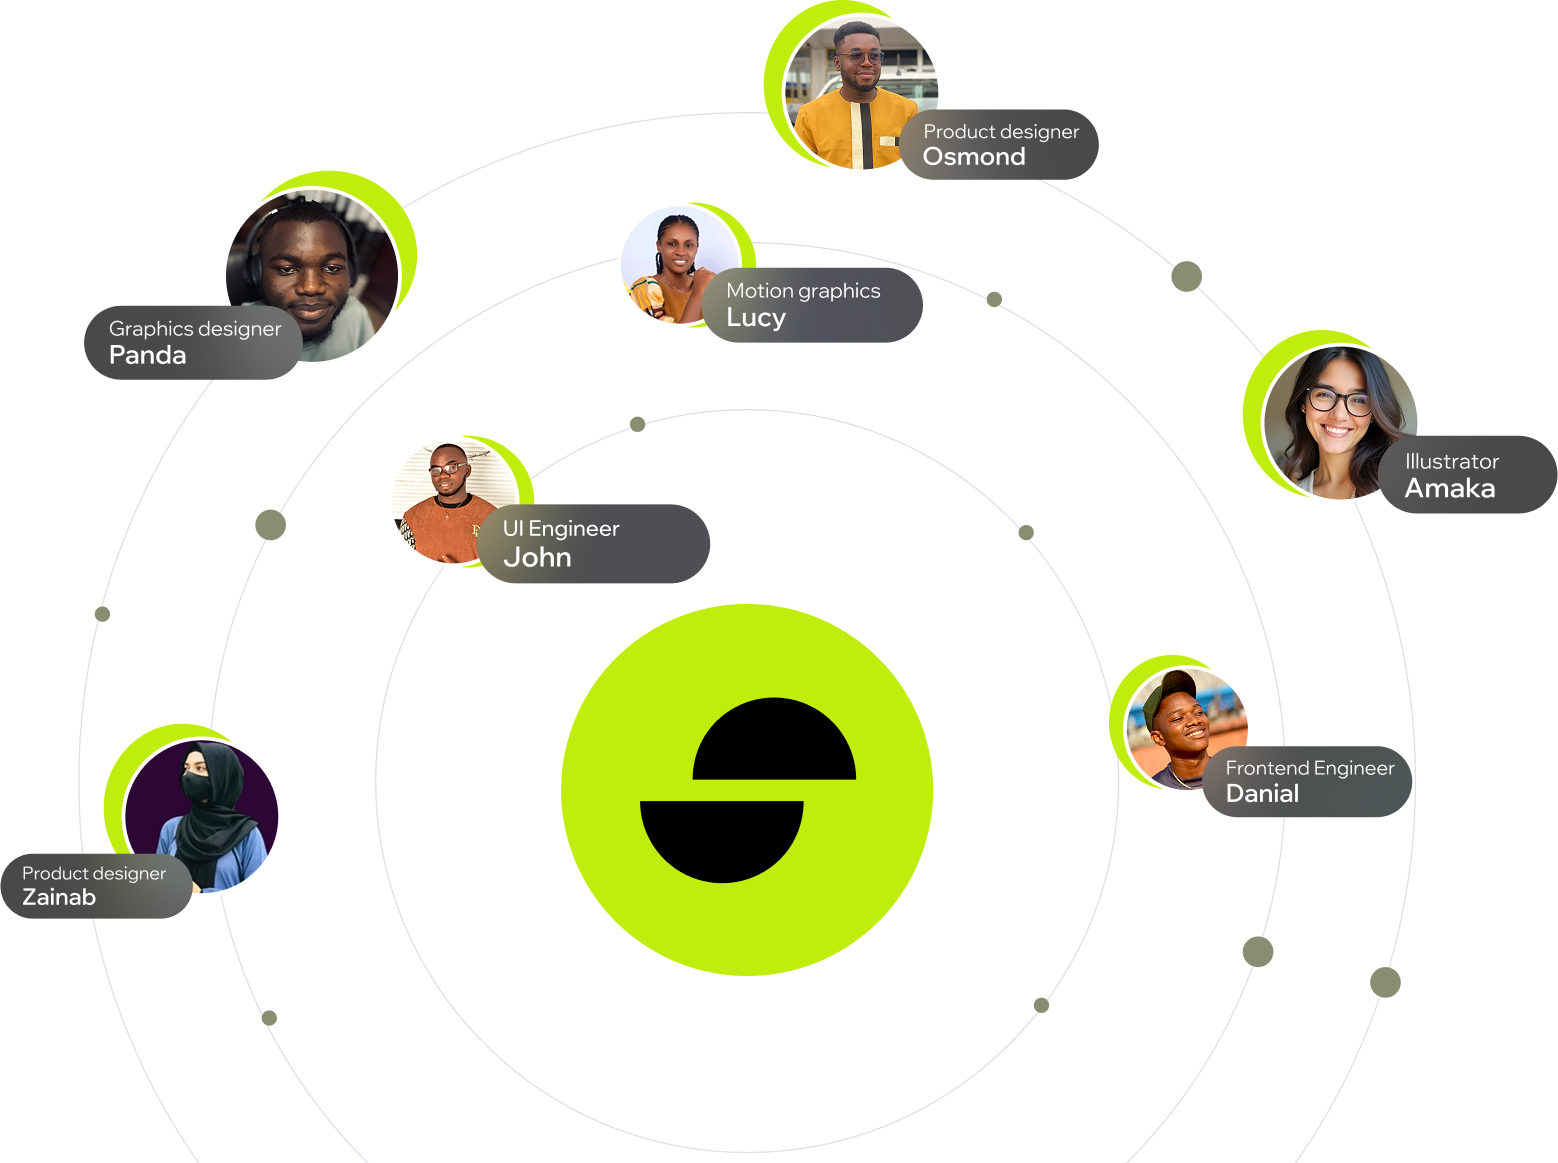
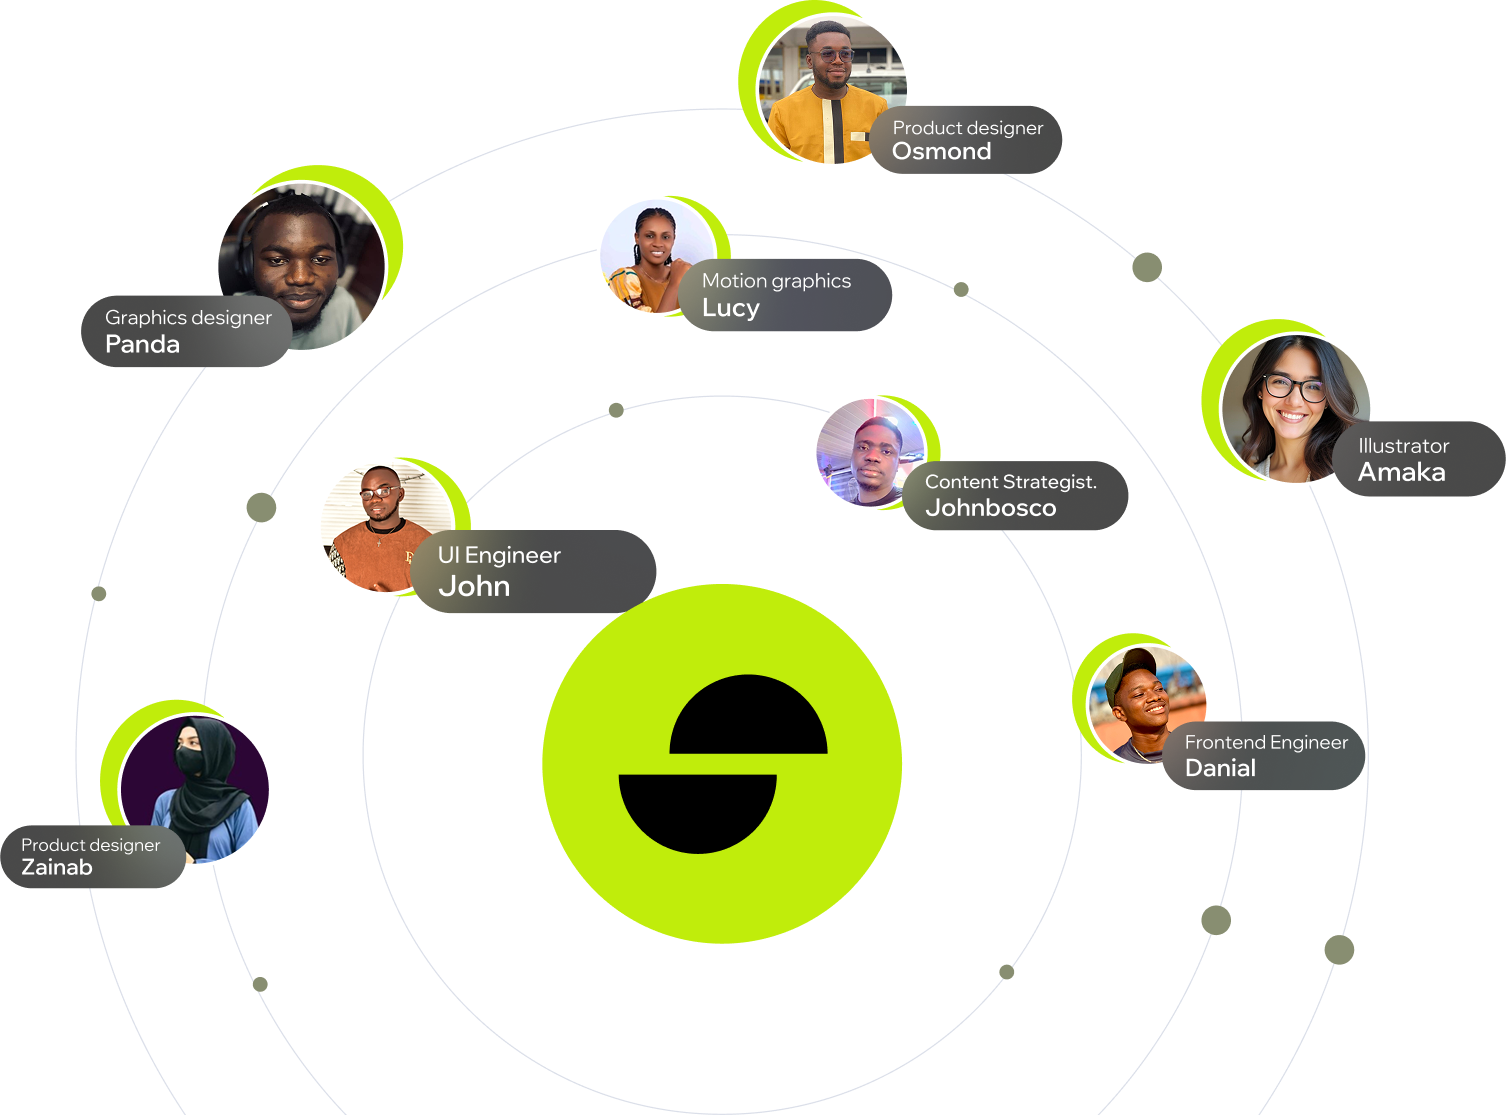
update

diff --git a/app/layout.tsx b/app/layout.tsx
@@ -2,8 +2,8 @@ import { ApolloWrapper } from "@/base/lib/apollo-client";
 import { PageLayout } from "@/components/Layout/PageLayout";
 import type { Metadata } from "next";
 import { Wix_Madefor_Display } from "next/font/google";
-import "./globals.css";
 import { Toaster } from "react-hot-toast";
+import "./globals.css";
 
 const wixMadefor = Wix_Madefor_Display({
   subsets: ["latin"],
@@ -15,7 +15,6 @@ const wixMadefor = Wix_Madefor_Display({
 export const metadata: Metadata = {
   title: "Growthlobby : Design + Code Agency",
   description: "Your web design partner",
-  icons: '/images/logo1.png',
 };
 
 export default function RootLayout({
@@ -26,19 +25,21 @@ export default function RootLayout({
   return (
     <html lang="en">
       <head>
-        <link rel="icon" href="/images/logo1.png" sizes="any" type="image/png"/>
+        <link rel="icon" href="/images/logo1.png" />
         <link rel="apple-touch-icon" href="/images/logo1.png" />
+        <link rel="icon" href="/images/favicon-32x32.png" sizes="32x32" />
+        <link rel="icon" href="/images/favicon-16x16.png" sizes="16x16" />
         <meta name="viewport" content="width=device-width, initial-scale=1" />
-        <meta name="theme-color" content="#ffffff" />
         <meta name="description" content="Your web design partner" />
-        <meta name="keywords" content="web design, development, agency, design agency, Nigeria" />
-        <meta name="author" content="Growthlobby" />
-        <meta property="og:title" content="Growthlobby" />
+        <meta
+          name="keywords"
+          content="web design, development, agency, design agency, Nigeria"
+        />
+        <meta name="author" content="John Ifemezuo" />
         <meta property="og:description" content="Your web design partner" />
         <meta property="og:image" content="/images/logo1.png" />
         <meta property="og:url" content="https://growthlobby.com" />
-
-        </head>
+      </head>
       <body className={` ${wixMadefor.variable}  antialiased`}>
         <PageLayout>
           <ApolloWrapper>{children}</ApolloWrapper>

diff --git a/components/magicui/AnimatedTooltipPreview.tsx b/components/magicui/AnimatedTooltipPreview.tsx
@@ -3,13 +3,6 @@ import React from "react";
 import { AnimatedTooltip } from "../UI/AnimatedTooltip";
 const people = [
   {
-    id: 1,
-    name: "John",
-    designation: "UI Engineer",
-    image:
-      "/images/t5.png",
-  },
-  {
     id: 2,
     name: "Panda Johnson",
     designation: "Graphics Designer",
@@ -39,11 +32,18 @@ const people = [
   },
   {
     id: 6,
-    name: "Chiamaka",
-    designation: "Illustrator",
+    name: "Johnbosco",
+    designation: "Content Strategist  ",
     image:
-      "/images/t1.png",
+    "/images/bosco.jpg",
   },
+  {
+    id: 1,
+    name: "John",
+    designation: "UI Engineer",
+    image:
+      "/images/t5.png",
+  }
 ];
 
 export function AnimatedTooltipPreview() {
